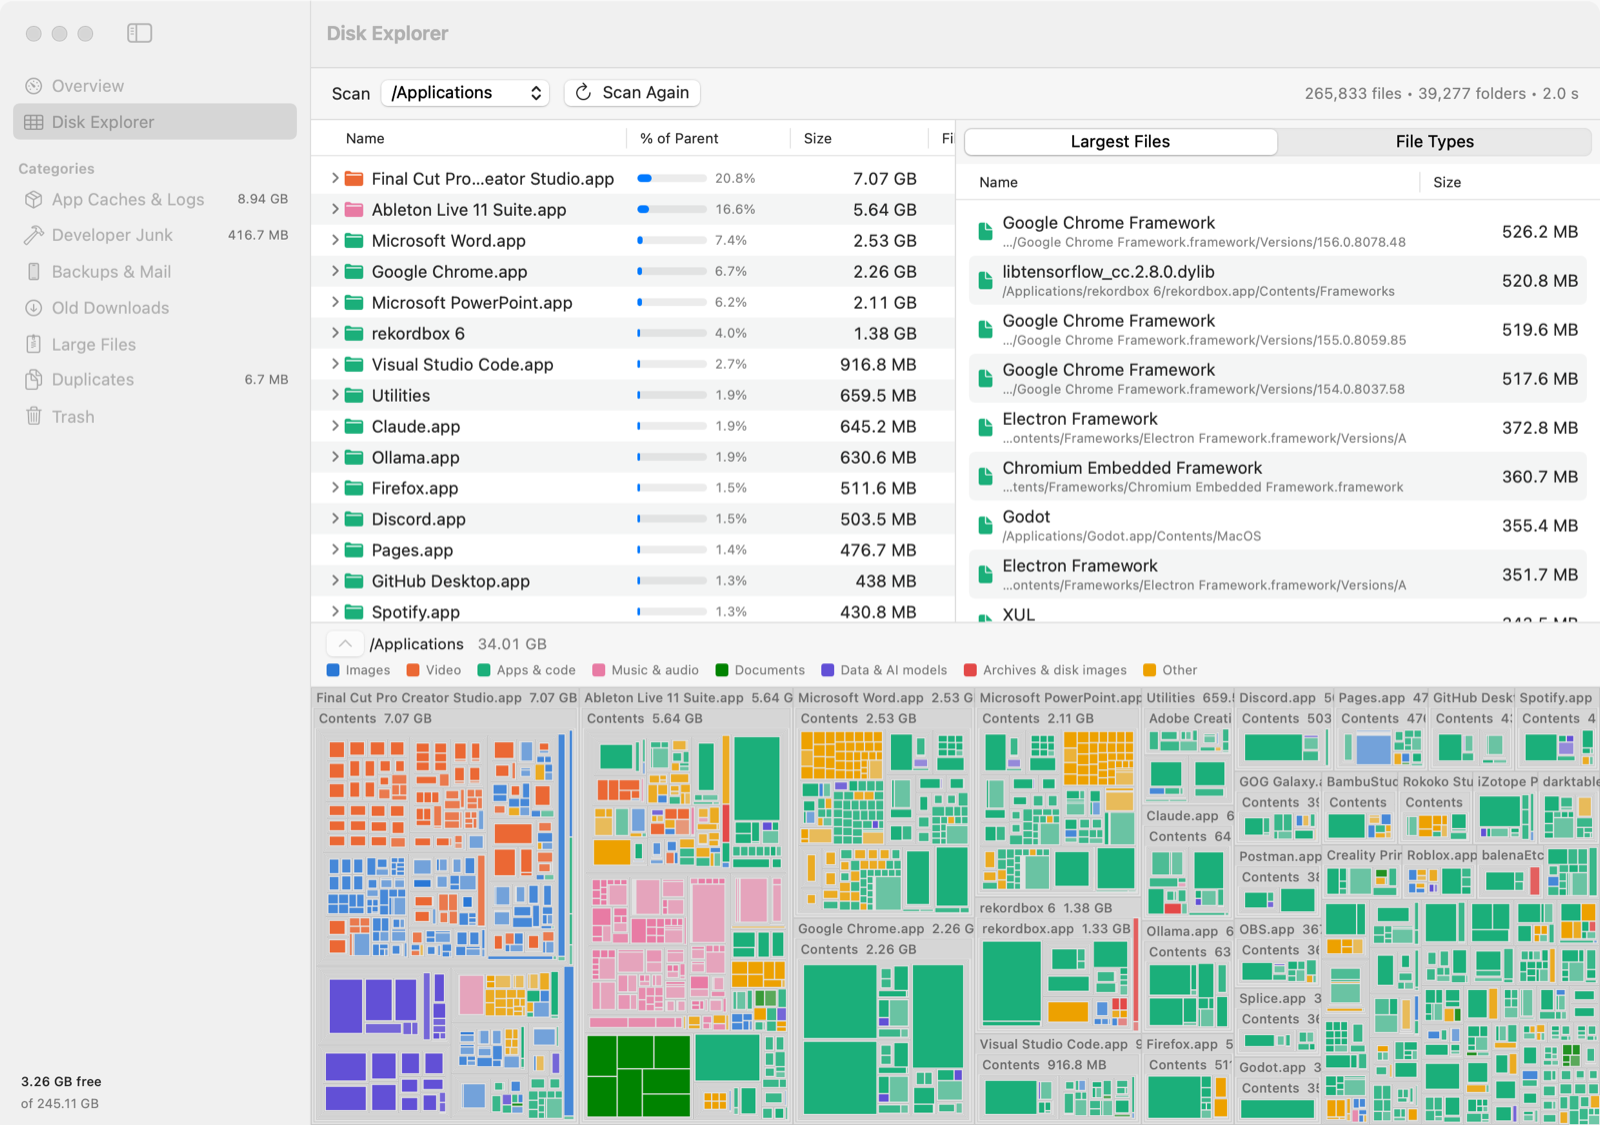
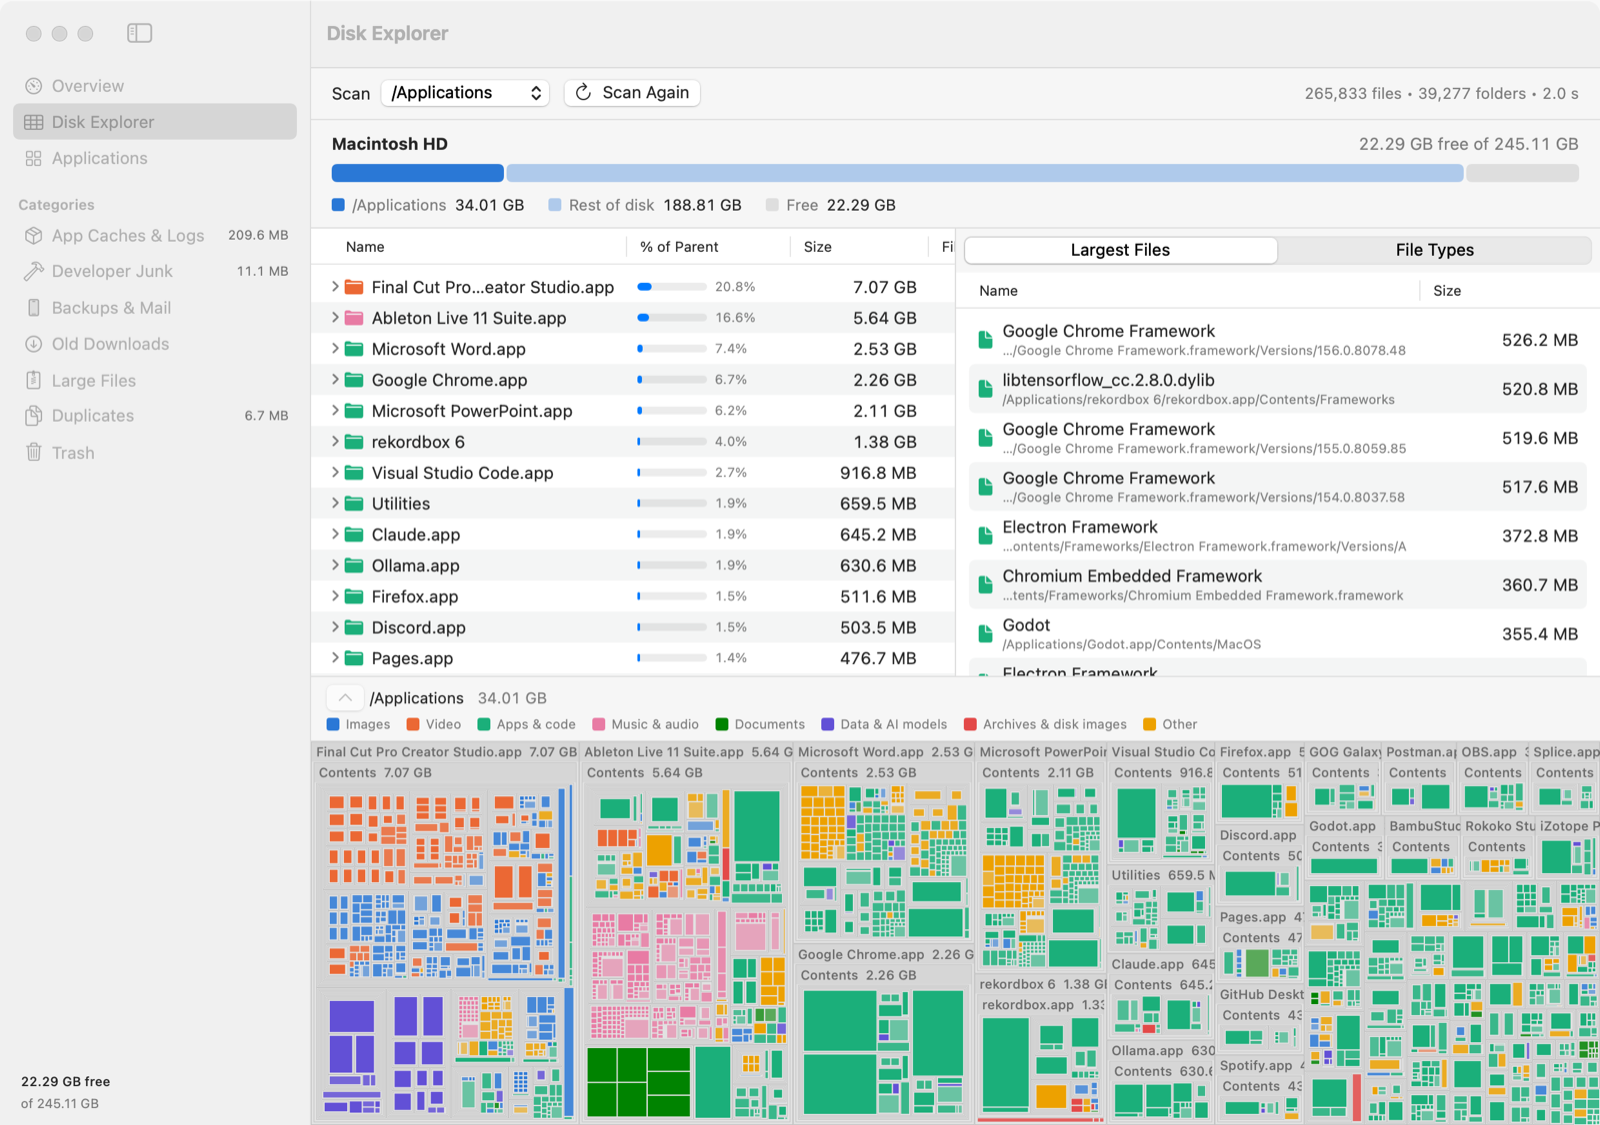
Document the uninstaller, rework the vibe-coded disclaimer, 1.1.0
- README: Applications section and screenshot, Disk Explorer storage bar
  and zooming, uninstall safety rules, refreshed screenshots
- Vibe-coded disclaimer rewritten: built by Claude Opus 5.5 in Claude
  Code, what was and wasn't tested, bugs testing caught, and how to use
  it sensibly; warning callout at the top
- Version 1.1.0

diff --git a/README.md b/README.md
@@ -2,16 +2,24 @@
 
 **See what's filling your Mac's disk, and clear it safely.**
 
-A native macOS app that combines two tools:
+A native macOS app that combines three tools:
 
 - **Smart cleanup**: finds caches, developer junk, old downloads, duplicates and more, and pre-selects what's safe to remove.
 - **Disk Explorer**: a WizTree-style map of your whole disk, so you can see exactly where the space went.
+- **App uninstaller**: shows every installed app by size and when you last opened it, and removes it together with the files
+  it leaves behind in `~/Library`.
 
 ![macOS 14+](https://img.shields.io/badge/macOS-14%2B-000000?logo=apple&logoColor=white)
 ![Swift](https://img.shields.io/badge/Swift-5.9-F05138?logo=swift&logoColor=white)
 ![SwiftUI](https://img.shields.io/badge/UI-SwiftUI-0A84FF)
 ![License: MIT](https://img.shields.io/badge/License-MIT-yellow.svg)
-![Vibe coded](https://img.shields.io/badge/vibe-coded-ff69b4)
+![Vibe coded with Claude Opus 5.5](https://img.shields.io/badge/vibe_coded-Claude_Opus_5.5-ff69b4)
+
+> [!WARNING]
+> **This is vibe-coded software that deletes files.** It was written by an AI model, Claude Opus 5.5, with a person
+> steering. It moves things to the Trash rather than deleting them outright, and it has guard rails, but it hasn't had a
+> line-by-line human review or wide testing. **Back up your Mac first**, check what's selected before you clean, and read the
+> [vibe-coded disclaimer](#vibe-coded-disclaimer).
 
 ![Overview](docs/screenshots/overview.png)
 
@@ -44,12 +52,15 @@ folder), and you can stop it at any time.
 Pick **Macintosh HD**, your home folder, or any folder and scan it. It's fast: `/Applications` (265k files) takes about 1–2
 seconds, and `/System` (470k files and folders) about 4.
 
+- **Storage bar** showing how much of the disk the scanned folder takes, what's selected, and what's free
 - **Folder tree** sorted biggest-first, with a "% of parent" bar on every row
 - **Largest Files**: the 1,000 biggest files anywhere on the disk, in one list
 - **File Types**: total size and count per extension
 - **Treemap**: every block's area is the space it takes, colored by type (images, video, apps & code, music, documents,
-  data & AI models, archives & disk images, other). Double-click a block to zoom in, and click a legend entry or a file type
-  to highlight just those files.
+  data & AI models, archives & disk images, other).
+  - Double-click a block to zoom in. Double-clicking a "more items" block zooms straight into the folder holding them.
+  - Click a legend entry or a file type to highlight just those files.
+  - Hover any block for its name, size and path.
 - **Multi-select**: ⌘/⇧-click in the lists or ⌘-click on the map, then **Show in Finder** or **Move to Trash** all at once
 
 ![Disk Explorer](docs/screenshots/disk-explorer.png)
@@ -59,6 +70,26 @@ seconds, and `/System` (470k files and folders) about 4.
 It also comes in dark mode:
 
 ![Treemap in dark mode, video files highlighted](docs/screenshots/treemap-dark.png)
+
+### Applications
+
+Every app in `/Applications` and `~/Applications`, with:
+
+- **Real size**: the app plus the data it keeps in `~/Library`, e.g. "1.6 GB (+1.17 GB data)"
+- **When you last opened it**: sort by it, or tick **Not opened in 6 months**
+- **Its leftover files**, each with a checkbox: app data, caches, settings, saved windows, web data, containers and background
+  helpers
+- **Uninstall**: moves the app and the ticked leftovers to the Trash, quitting the app first if it's open. Select several apps
+  to uninstall them together.
+
+Some apps get extra care:
+
+- **App Store and other system-owned apps** go through Finder, which asks for your password the way it does when you drag
+  them to the Trash yourself.
+- **Built-in macOS apps** (and Mac Cleaner itself) are protected.
+- **Steam shortcuts** are recognized as just launchers. Uninstalling one never touches the game's save files.
+
+![Applications](docs/screenshots/applications.png)
 
 ---
 
@@ -136,6 +167,9 @@ Deleting the wrong thing is the worst thing a cleaner can do, so the app is caut
   - standard folders like Documents or Library
   - anything outside your home folder and `/Applications`
 - **Duplicates that wouldn't free anything** (APFS clones and hard links) are left out.
+- **Uninstalling only takes an app's own files.** Leftovers are matched by the app's exact bundle ID, so one app's uninstall
+  never takes another app's files or a shared suite container (like Microsoft Office's). A few folders are matched by the
+  app's name instead; those are labelled "matched by app name", and you can untick any leftover to keep it.
 - **The file-by-file searches skip `~/Library`, app bundles and `node_modules`.** Those are covered by the targeted
   categories instead.
 
@@ -160,6 +194,16 @@ Each call returns the names, types and allocated sizes of many entries at once, 
 isn't room the smallest, deepest detail is what gets dropped. Folders too small to show their contents are drawn in the color
 of the file type that takes the most space inside them.
 
+### App uninstaller
+
+`Sources/MacCleaner/Apps/AppsScanner.swift`:
+
+- **Finding apps:** it lists the app folders (and one level of subfolders, like `Utilities`).
+- **Measuring:** it measures every app in parallel.
+- **Finding leftovers:** it reads each relevant `~/Library` folder once, then matches entries by bundle ID.
+- **"Last opened":** it uses Spotlight's record, falling back to when the app's program was last read, since Spotlight often
+  has no entry for apps opened from the Dock.
+
 ### Cleanup scans
 
 Each category scan runs on its own background task, reports progress through a lock-guarded object the UI samples a few times
@@ -172,6 +216,7 @@ file found by two categories, or something inside a folder that's also being rem
 | --- | --- |
 | `Sources/MacCleaner/Scanning` | Cleanup-category scanners |
 | `Sources/MacCleaner/Explorer` | Disk Explorer: bulk scanner, tree model, treemap layout |
+| `Sources/MacCleaner/Apps` | App uninstaller: app and leftover discovery, uninstall |
 | `Sources/MacCleaner/Cleaning` | Removal engine |
 | `Sources/MacCleaner/Views` | SwiftUI screens |
 | `AppBundle/` | `Info.plist` and app icon |
@@ -181,6 +226,7 @@ file found by two categories, or something inside a folder that's also being rem
 
 ## Known limitations
 
+- Leftover detection covers your user `~/Library` only, not system-wide `/Library` files that some installers add.
 - The download isn't notarized, so macOS needs a one-time "Open Anyway" (see [Install](#install)).
 - Release builds include an Intel version, but it has only been tested on Apple Silicon.
 - There are no automated tests yet. The scanners were checked against folders with known contents, and the Disk Explorer's
@@ -189,18 +235,55 @@ file found by two categories, or something inside a folder that's also being rem
 
 ---
 
-## Vibe coded
+## Vibe-coded disclaimer
 
-This app was **vibe coded**. It was built entirely through conversation with [Claude Code](https://claude.com/claude-code),
-Anthropic's AI coding agent: a human described what they wanted ("make it work like WizTree", "more color, no grey", "can't
-select multiple files") and steered from there, and the AI wrote the code, built it, tested the scanners and checked the UI
-along the way.
+### How this was made
 
-The safety rails above were taken seriously, and several came out of testing (e.g. not letting you trash files inside apps or
-the Photos library). Still, it's a disk cleaner written this way, so read the code, and keep a backup before you clean
-anything you care about.
+Mac Cleaner was **vibe coded**. All of the code was written by **Claude Opus 5.5**, Anthropic's AI model, working in
+[Claude Code](https://claude.com/claude-code) over one long conversation. The human side of the project:
 
-Issues and pull requests are welcome.
+- set the direction ("make it work like WizTree", "more color, no grey", "we should also see apps and delete them")
+- tried the app and reported what felt wrong
+- made the calls on scope, license and publishing
+
+The code was **not written or reviewed line by line by a person**.
+
+### What was actually checked
+
+The AI tested its own work as it went:
+
+- **Scanners:** run against throwaway folders with known contents (duplicates, APFS clones, hard links, stale
+  `node_modules`, a fake Photos library).
+- **Disk Explorer totals:** compared with `du`, matching to the kilobyte on the folders tested.
+- **Move to Trash and uninstall:** run for real on dummy files and a fake app with fake leftovers, confirming that the right
+  things moved and that unticked items stayed.
+- **Every screen:** rendered in light and dark mode and inspected.
+
+That testing caught real problems before release, which is why you should read the code:
+
+- the Disk Explorer would have let you trash files from inside apps and the Photos library
+- uninstalling a Steam shortcut would have taken the game's save files
+- a blocked folder was reported as "Nothing found"
+
+### What hasn't been checked
+
+- There's no automated test suite.
+- It hasn't been tested on Intel Macs, on other people's Macs, or across many macOS versions and setups.
+- The Finder password path for removing system-owned apps hasn't been exercised end to end.
+- Whole-disk scans with Full Disk Access granted have only been run on the developer's Mac.
+
+### Using it sensibly
+
+- **Have a backup** (e.g. Time Machine) before cleaning anything you care about.
+- **Look at what's selected** before you confirm. Pre-selected means "rebuilt automatically", not "reviewed by a human".
+- **Check the Trash before emptying it.** Almost everything Mac Cleaner removes goes there first, and the few permanent
+  actions are labelled **Permanent**.
+
+The software is provided "as is", without warranty of any kind (see the [MIT license](LICENSE)). Mac Cleaner isn't affiliated
+with Apple, Anthropic, or WizTree.
+
+Bug reports, reviews and pull requests are very welcome. A second pair of human eyes on the deletion code would be especially
+valuable.
 
 ## License
 
